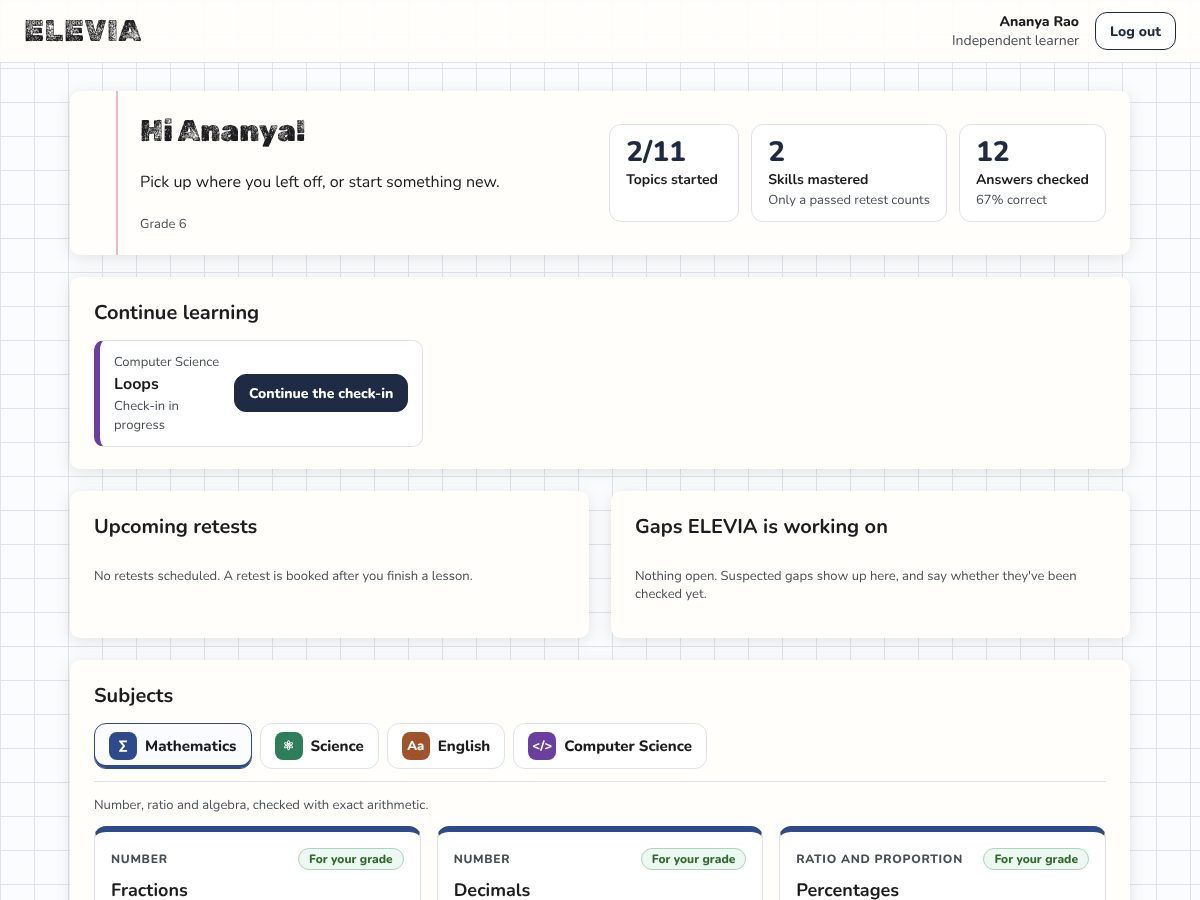
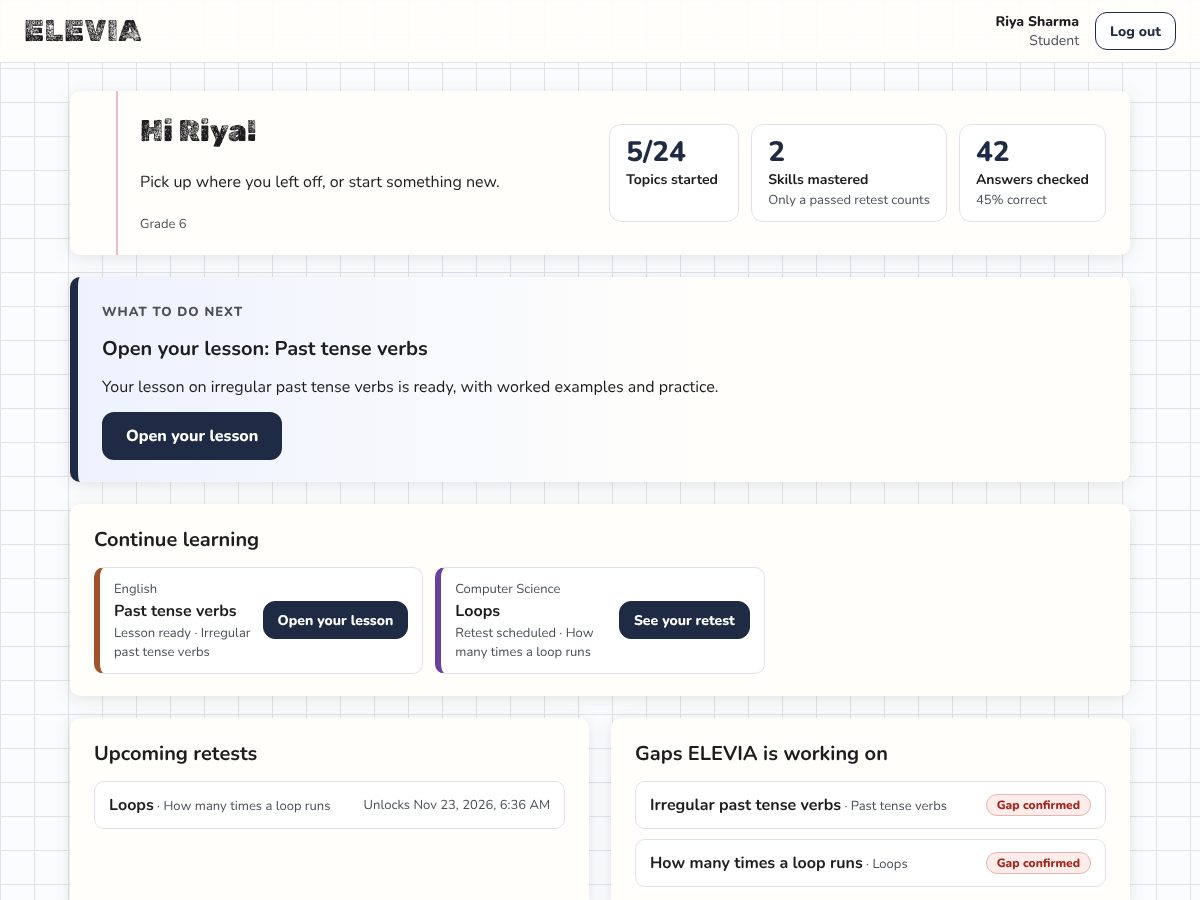
Landing copy for 24 topics; browser E2E covers the judge journey (17 checks); fresh screenshots
Claude-Session: https://claude.ai/code/session_01FhU2TFMxiEyYf6KbvK9zGE

diff --git a/public/index.html b/public/index.html
@@ -109,7 +109,7 @@
     <h2 class="sec-h reveal">What's built</h2>
     <p class="sec-p reveal">Everything below works in the current version and is covered by automated tests.</p>
     <ul class="feat-grid">
-      <li class="feat reveal"><span class="fi" aria-hidden="true">🔍</span><h3>Misconception detection</h3><p>39 named misconception patterns across 11 topics, each tied to the skill it points to.</p></li>
+      <li class="feat reveal"><span class="fi" aria-hidden="true">🔍</span><h3>Misconception detection</h3><p>82 named misconception patterns across 24 topics, each tied to the skill it points to.</p></li>
       <li class="feat reveal"><span class="fi" aria-hidden="true">✓</span><h3>Verify before you teach</h3><p>No lesson is planned for a gap that hasn't been confirmed by new questions or a teacher.</p></li>
       <li class="feat reveal"><span class="fi" aria-hidden="true">🗺</span><h3>Plans from a skill map</h3><p>Prerequisites decide where a learning plan starts.</p></li>
       <li class="feat reveal"><span class="fi" aria-hidden="true">📘</span><h3>Step-by-step lessons</h3><p>Worked examples, sense checks, practice with hints and full solutions.</p></li>
@@ -127,10 +127,10 @@
     <h2 class="sec-h reveal">Subjects and topics</h2>
     <p class="sec-p reveal">Every topic below has a check-in, double-check questions, lessons, practice and retests. Grey topics are planned and not playable yet.</p>
     <div class="subj-grid" id="subj-grid">
-      <article class="subj" style="--c:#2f4a8a"><h3><span aria-hidden="true">∑</span> Mathematics</h3><p>Fractions, decimals, percentages, integers, linear equations.</p></article>
-      <article class="subj" style="--c:#2e7d5b"><h3><span aria-hidden="true">⚛</span> Science</h3><p>Forces and motion, states of matter.</p></article>
-      <article class="subj" style="--c:#a0522d"><h3><span aria-hidden="true">Aa</span> English</h3><p>Past tense verbs, subject–verb agreement.</p></article>
-      <article class="subj" style="--c:#6b3fa0"><h3><span aria-hidden="true">&lt;/&gt;</span> Computer Science</h3><p>Variables and assignment, loops.</p></article>
+      <article class="subj" style="--c:#2f4a8a"><h3><span aria-hidden="true">∑</span> Mathematics</h3><p>Order of operations, factors and multiples, fractions, decimals, percentages, integers, ratio, linear equations, angles, perimeter and area, averages.</p></article>
+      <article class="subj" style="--c:#2e7d5b"><h3><span aria-hidden="true">⚛</span> Science</h3><p>Scientific reasoning, forces and motion, states of matter.</p></article>
+      <article class="subj" style="--c:#a0522d"><h3><span aria-hidden="true">Aa</span> English</h3><p>Parts of speech, past tense verbs, subject–verb agreement, apostrophes.</p></article>
+      <article class="subj" style="--c:#6b3fa0"><h3><span aria-hidden="true">&lt;/&gt;</span> Computer Science</h3><p>Variables, data types, conditionals, logical reasoning, loops, basic algorithms.</p></article>
     </div>
   </div>
 </section>
@@ -167,7 +167,7 @@
   <div class="wrap split rev">
     <div class="shots reveal">
       <figure class="browser"><span class="dots" aria-hidden="true"><i></i><i></i><i></i></span>
-        <img src="/img/shot-teacher.jpg" width="1200" height="900" loading="lazy" alt="Teacher view of a student: verified gaps, double-check reasons and a review form">
+        <img src="/img/shot-teacher.jpg" width="1200" height="900" loading="lazy" alt="Teacher portal: review queue, class insights and each student's progress">
       </figure>
     </div>
     <div class="split-copy reveal">
@@ -208,7 +208,7 @@
   <div class="wrap narrow reveal">
     <h2 class="sec-h">About ELEVIA</h2>
     <p class="sec-p">ELEVIA is being built for PRASUNEX Innovathon 2026, around one question: how do we close the actual gap in a student's understanding instead of just marking answers? It is a working prototype. It hasn't been tested in classrooms yet, so we make no claims about learning outcomes.</p>
-    <p class="sec-p">What's next: more topics (geometry, statistics, reading comprehension, Boolean logic), wider prerequisite planning, and classroom pilots with teachers.</p>
+    <p class="sec-p">What's next: more topics (reading comprehension, electricity, light, probability), wider prerequisite planning, and classroom pilots with teachers.</p>
   </div>
 </section>
 

diff --git a/scripts/e2e_browser.py b/scripts/e2e_browser.py
@@ -1,8 +1,8 @@
 """Browser end-to-end check of the whole product, driven like a real user (Playwright + Chrome).
 
-    # terminal 1: a fresh database with demo accounts and scripted activity
-    ELEVIA_DB_PATH=/tmp/e2e.db python scripts/create_demo_accounts.py --with-activity
-    ELEVIA_DB_PATH=/tmp/e2e.db python -m uvicorn app:app --port 8765
+    # terminal 1: a fresh database with the demo accounts, demo mode on
+    ELEVIA_DB_PATH=/tmp/e2e.db python scripts/demo.py seed
+    ELEVIA_DB_PATH=/tmp/e2e.db ELEVIA_DEMO_MODE=1 python -m uvicorn app:app --port 8765
     # terminal 2
     python scripts/e2e_browser.py [--base http://localhost:8765] [--shots]   (--shots refreshes public/img/*.jpg)
 
@@ -83,7 +83,11 @@ def main():
         pg.goto(B + "/")
         expect(pg.locator("h1.hero-h")).to_contain_text("missing understanding")
         pg.locator("#subj-grid .topic-links a").first.wait_for()
-        assert pg.locator("#subj-grid .topic-links a").count() == 11
+        assert pg.locator("#subj-grid .topic-links a").count() == 24
+        broken = pg.evaluate("[...document.images].filter(i => i.loading !== 'lazy' && !(i.complete && i.naturalWidth > 0)).map(i => i.src)")
+        assert not broken, broken
+        pg.locator("#demo-grid .demo-card").first.wait_for()
+        assert pg.locator("#demo-grid .demo-card").count() == 6 and "Demo-Pass" not in pg.content()
         pg.click(".lnav-links a[href='#how']"); pg.wait_for_timeout(700)
         assert pg.evaluate("window.scrollY") > 400 and pg.evaluate("location.hash") == ""
         for sec in ("features", "students", "teachers", "about"):
@@ -94,15 +98,22 @@ def main():
                 assert pg.locator(h).count() == 1, h
             elif h.startswith("#/"):
                 assert re.match(r"#/(start|login|learn/[a-z_]+)?$", h), h
-        step(f"landing: hero, {len(hrefs)} links checked, live catalogue (11 topics), smooth in-page nav")
+        for y in range(0, pg.evaluate("document.body.scrollHeight"), 700):   # load lazy screenshots, then check them
+            pg.evaluate(f"window.scrollTo(0,{y})"); pg.wait_for_timeout(60)
+        pg.wait_for_timeout(500)
+        broken = pg.evaluate("[...document.images].filter(i => !(i.complete && i.naturalWidth > 0)).map(i => i.src)")
+        assert not broken, broken
+        step(f"landing: hero, {len(hrefs)} links checked, live catalogue (24 topics), 6 demo cards, no broken images")
+        pg.evaluate("window.scrollTo(0,0)")
         pg.click(".lnav-links a.btn"); expect(pg.locator("#app h1")).to_contain_text("How would you like")
         step("Get started opens the account-type chooser")
 
         # ---------------------------------------------------------------- student journey (independent learner)
         pg = new_page()
-        login(pg, "demo.learner@example.com")
+        pg.goto(B + "/"); pg.locator("#demo-grid .demo-card").first.wait_for()
+        pg.click("button[aria-label^='Open the demo as Ananya']")
         pg.locator("#app .tabs").wait_for()
-        step("learner logs in and lands on the dashboard")
+        step("one-click demo login (Ananya, new student) lands on the dashboard")
         pg.locator("#app button[aria-label='Start the check-in: Fractions']").click()
         expect(pg.locator("#dgrade-err")).to_be_visible()
         pg.select_option("#dgrade", "6")
@@ -144,39 +155,55 @@ def main():
         pg.locator("#app .cont-item").first.wait_for()
         assert pg.locator("#app .cont-item").count() == 1
         assert int(pg.locator("#app .stat-v").nth(1).inner_text()) >= 1          # retest pass mastered skills
-        shot(pg, "dash")
         step("dashboard: continue learning, mastered skill, history")
         mp = new_page(390, 844)
-        login(mp, "demo.learner@example.com"); mp.locator("#app .tabs").wait_for()
+        login(mp, "riya.demo"); mp.locator("#app .next-step").wait_for()
         assert mp.evaluate("document.documentElement.scrollWidth <= window.innerWidth + 1")
-        step("dashboard fits a 390px phone screen")
+        step("password login (Riya) works; dashboard with 'what to do next' fits a 390px phone screen")
+        rp = new_page()
+        rp.goto(B + "/#/login"); rp.locator(".demo-strip .demo-card").first.wait_for()
+        rp.click(".demo-strip button[aria-label^='Open the demo as Riya']")
+        rp.locator("#app .next-step").wait_for()
+        expect(rp.locator("#app .next-step h2")).to_contain_text("Past tense")
+        assert rp.locator("#app .upcoming, #app .list .item").count() >= 1
+        shot(rp, "dash")
+        rp.locator("#app .next-step button").click()
+        rp.locator("#app .lesson h2").wait_for()
+        step("Riya (demo strip on login page): next step opens her lesson in progress")
 
         # ---------------------------------------------------------------- teacher
         tp = new_page()
         login(tp, "demo.teacher@example.com")
-        tp.locator("#app .ptable").wait_for()
-        expect(tp.locator("#app .ptable tbody tr").first).to_contain_text("needs review")
-        tp.locator("#app .ptable a", has_text="Open").first.click()
-        tp.locator("#app .review").wait_for()
-        expect(tp.locator("#app .round").first).to_contain_text("Inconclusive")
+        tp.locator("#app .queue-item").wait_for()
+        expect(tp.locator("#app .queue-item")).to_contain_text("Arjun Patel · Fractions")
+        tp.wait_for_timeout(300)
         shot(tp, "teacher")
-        step("teacher: class overview -> student detail with evidence and review form")
-        tp.locator("#app .review button", has_text="Confirm gap").click()
-        expect(tp.locator("#app .review .alert")).to_be_visible()                # reason required
-        tp.fill("#app .review textarea", "Saw the same mistake in class on Monday")
-        tp.locator("#app .review button", has_text="Confirm gap").click()
-        expect(tp.locator("#app .round").first).to_contain_text("In the learning room")
-        expect(tp.locator("#app .audit").first).to_contain_text("Saw the same mistake")
+        tp.locator("#app .queue-item a", has_text="Review").click()
+        fr = tp.locator("#app section.panel", has=tp.locator("h2", has_text=re.compile("^Fractions$")))
+        rv = fr.locator(".review").first
+        rv.wait_for()
+        expect(fr.locator(".round").first).to_contain_text("Inconclusive")
+        expect(fr.locator(".round").first).to_contain_text("Evidence")
+        step("teacher: review queue -> Arjun's case with evidence and review form")
+        rv.locator("button", has_text="Confirm gap").click()
+        expect(rv.locator(".alert")).to_be_visible()                               # reason required
+        rv.locator("textarea").fill("Saw the same mistake in class on Monday")
+        rv.locator("button", has_text="Confirm gap").click()
+        fr = tp.locator("#app section.panel", has=tp.locator("h2", has_text=re.compile("^Fractions$")))
+        expect(fr.locator(".round").first).to_contain_text("In the learning room")
+        expect(fr.locator(".audit").first).to_contain_text("Saw the same mistake")
         step("teacher confirms with a reason; lesson created; override logged")
 
         # ---------------------------------------------------------------- parent + student sees teacher decision
         pp = new_page()
-        login(pp, "demo.parent2@example.com")
-        pp.locator("#app .ptable").wait_for()
-        pp.locator("#app .ptable a", has_text="Open").first.click()
+        login(pp, "demo.parent@example.com")
+        pp.locator("#app .kid").wait_for()
+        expect(pp.locator("#app .kid")).to_contain_text("Riya Sharma")
+        assert pp.locator("#app .kid").count() == 1 and "Arjun" not in pp.locator("#app main").inner_text()
+        pp.locator("#app .kid a", has_text="See details").click()
         pp.locator("#app .round").first.wait_for()
         assert pp.locator("#app .review").count() == 0
-        step("parent sees their child's progress, no review controls")
+        step("parent (Sunita) sees only Riya, in plain language, with no review controls")
         sp = new_page()
         login(sp, "arjun.demo")
         sp.locator("#app .cont-item").first.wait_for()
